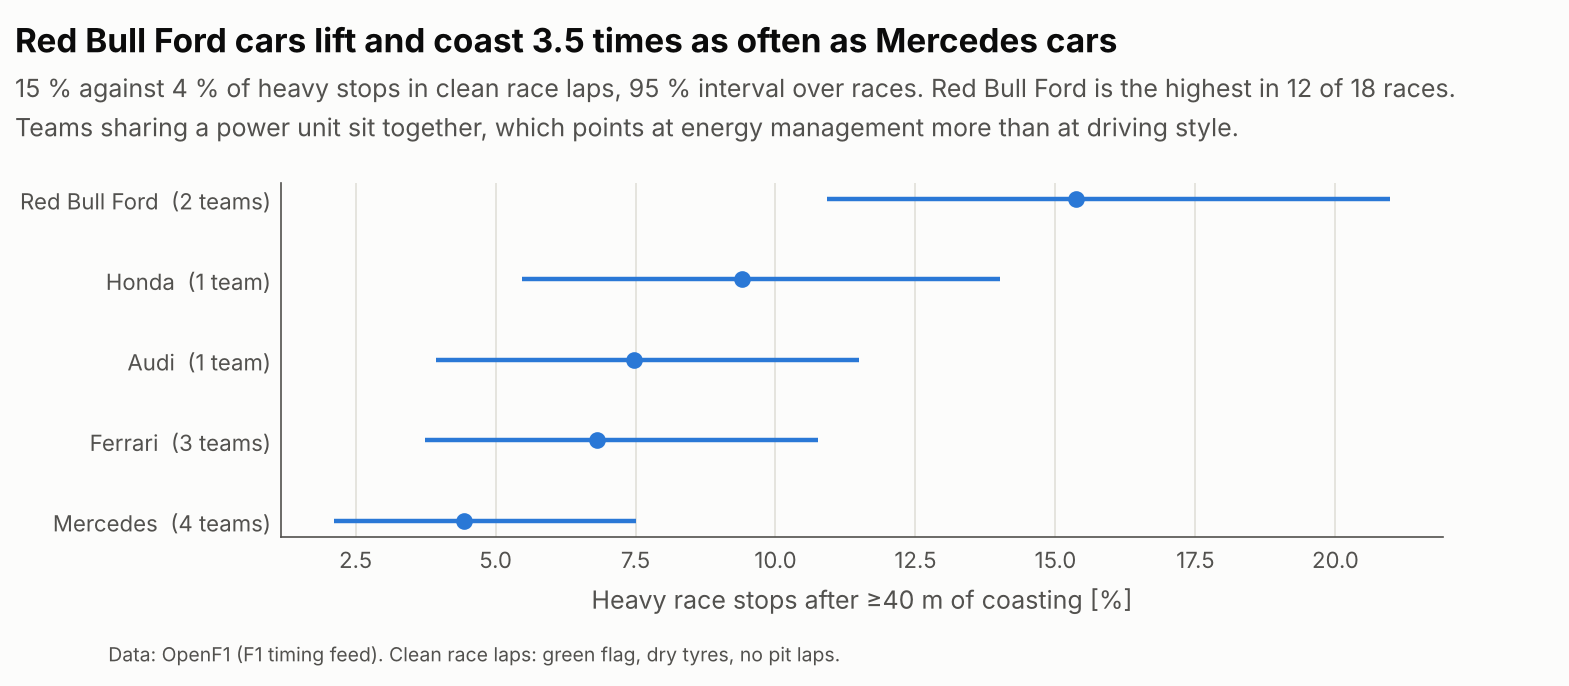
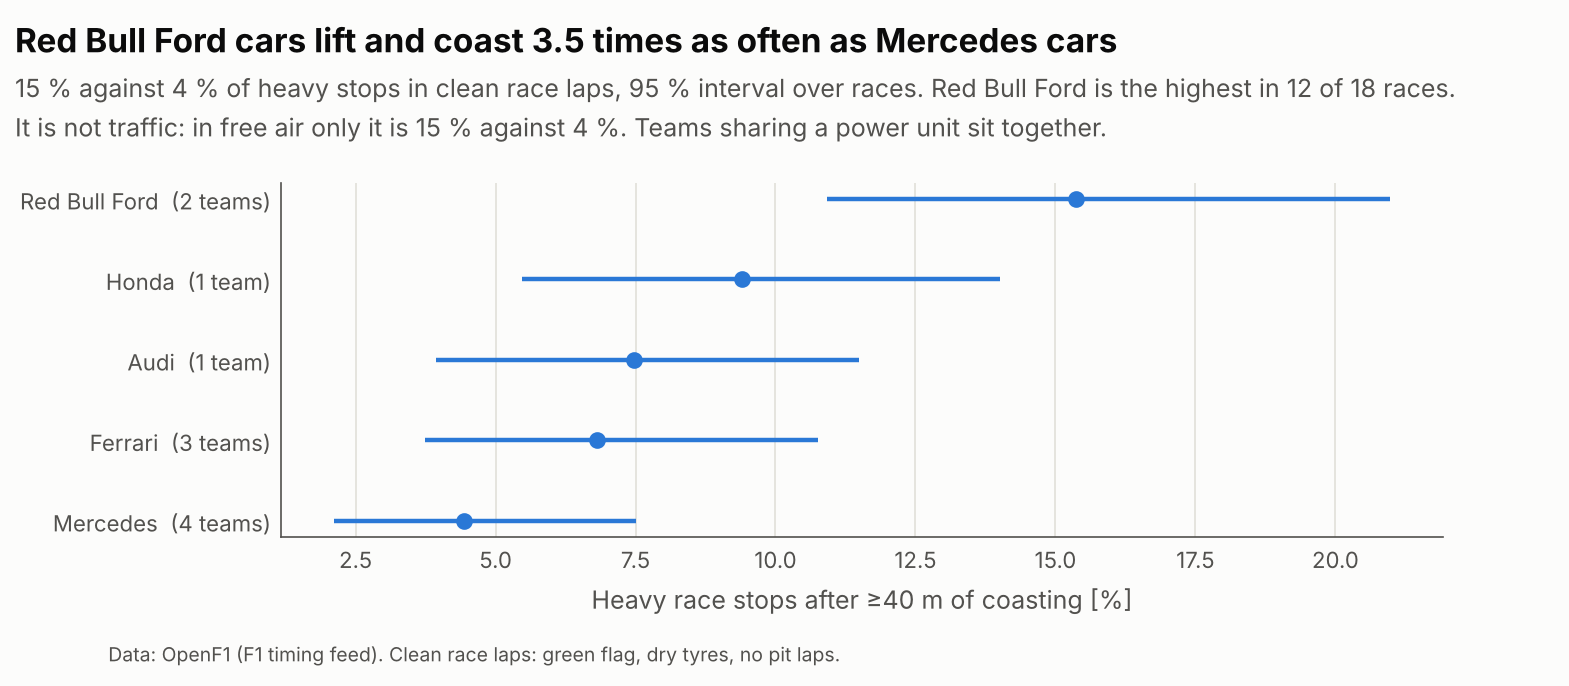
Free-air filter for race laps
- gap to the car ahead from line crossings (the intervals endpoint is
  nearly empty for 2026), taken at both ends of the lap
- same driver, stint and corner: 4.5 m earlier in traffic
- lap-to-lap scatter reported for free air (7.9 m) and traffic (9.9 m)
- power-unit pattern and race margin checked in free air only
- build scripts take the season as an argument
- a driver without a usable lap no longer drops the whole session

Changed region(s): [[0.0, 0.1531, 0.7808, 0.2143]]

diff --git a/examples/race_atlas.py b/examples/race_atlas.py
@@ -16,7 +16,7 @@ import pandas as pd  # noqa: E402
 
 from brakeatlas import plots, stats, style  # noqa: E402
 from brakeatlas.field import field_marks  # noqa: E402
-from brakeatlas.race import POWER_UNIT  # noqa: E402
+from brakeatlas.race import FREE_AIR, POWER_UNIT  # noqa: E402
 
 ROOT = Path(__file__).resolve().parents[1]
 DATA, DOCS = ROOT / "data", ROOT / "docs"
@@ -56,6 +56,7 @@ def main(suffix: str = "") -> None:
     order = list(race.groupby("track")["round_date"].first().sort_values().index)
     heavy = race[race["speed_drop"] >= plots.HEAVY_DROP]
     heavy = plots.regulars(heavy)
+    heavy = heavy.assign(free=heavy["gap_ahead"] > FREE_AIR)
     laps = race.groupby(["session", "driver", "lap_number"]).ngroups
     print(f"{len(order)} races, {laps} clean laps, {len(heavy)} heavy zones")
 
@@ -88,9 +89,40 @@ def main(suffix: str = "") -> None:
     style.source_note(fig, SOURCE)
     style.save(fig, DOCS / f"race_{YEAR}_margin.png")
 
-    # 2. Lap-to-lap scatter
-    pairs = stats.lap_pairs(heavy)
+    # 2. Traffic: same driver, stint and corner, laps in traffic against free air
+    one_lap = heavy.drop_duplicates(["session", "driver", "lap_number"])
+    keys = ["session", "driver", "stint", "corner"]
+    air = heavy.groupby([*keys, "free"]).agg(
+        bp=("bp_before_mark", "median"),
+        entry=("entry_speed", "median"),
+        n=("lap_number", "size"),
+    )
+    air = air.unstack("free")
+    air = air[(air[("n", True)] >= 3) & (air[("n", False)] >= 3)]
+    effect = pd.DataFrame(
+        {
+            "bp": air[("bp", False)] - air[("bp", True)],
+            "entry": air[("entry", False)] - air[("entry", True)],
+        }
+    ).reset_index()
+    t_bp = stats.cluster_bootstrap(effect, lambda f: f["bp"].median(), n=300)
+    t_entry = stats.cluster_bootstrap(effect, lambda f: f["entry"].median(), n=300)
+    print(
+        f"\nFree air (more than {FREE_AIR} s to the car ahead): "
+        f"{100 * one_lap['free'].mean():.0f} % of clean laps. In traffic the same "
+        f"driver brakes {t_bp[0]:+.1f} m earlier [{t_bp[1]:+.1f}, {t_bp[2]:+.1f}] "
+        f"and arrives {t_entry[0]:+.1f} km/h faster "
+        f"[{t_entry[1]:+.1f}, {t_entry[2]:+.1f}] ({len(effect)} stint-corners)"
+    )
+    m_free = stats.race_margin(
+        quali[quali["speed_drop"] >= plots.HEAVY_DROP], heavy[heavy["free"]]
+    )
+    print(f"Race vs qualifying in free air only: {m_free['margin_m'].median():+.1f} m")
+
+    # 3. Lap-to-lap scatter, free air only
+    pairs = stats.lap_pairs(heavy[heavy["free"]])
     field_s = stats.spread(pairs)
+    traffic_s = stats.spread(stats.lap_pairs(heavy[~heavy["free"]]))
     rows = []
     for driver, g in pairs.groupby("driver"):
         if g["session"].nunique() >= min(5, len(order)):
@@ -104,7 +136,8 @@ def main(suffix: str = "") -> None:
             )
     by_driver = pd.DataFrame(rows, columns=["label", "driver", "med", "lo", "hi", "n"])
     print(
-        f"\nLap-to-lap brake-point scatter, field: {field_s:.1f} m "
+        f"\nLap-to-lap brake-point scatter in free air: {field_s:.1f} m, in traffic "
+        f"{traffic_s:.1f} m "
         f"({len(pairs)} consecutive-lap pairs; raw sd of differences "
         f"{pairs['d'].std():.1f} m, sampling part "
         f"{np.sqrt(pairs['noise'].mean()):.1f} m)"
@@ -123,11 +156,11 @@ def main(suffix: str = "") -> None:
     )
     style.headline(
         ax,
-        f"The brake point moves about {field_s:.0f} m from lap to lap for everyone; "
-        f"only the ends ({best}, {worst}) differ",
-        "Standard deviation between consecutive clean laps of a stint, same corner, "
-        "95 % interval over races.\nIt is not only the driver: traffic and energy "
-        "management move a race brake point too.",
+        f"In free air the brake point moves {field_s:.0f} m from lap to lap, in "
+        f"traffic {traffic_s:.0f} m",
+        "Standard deviation between consecutive clean laps in free air, same stint "
+        "and corner, 95 % interval over races.\nMost drivers cannot be separated; "
+        f"only the ends of the list ({best}, {worst}) differ.",
     )
     style.source_note(fig, SOURCE)
     style.save(fig, DOCS / f"race_{YEAR}_scatter.png")
@@ -219,6 +252,8 @@ def main(suffix: str = "") -> None:
     print("\nLift and coast by power unit, % of heavy race stops:")
     print(pu_table.drop(columns="label").round(1).to_string(index=False))
     print(f"{top.pu} highest in {wins} of {len(per_race)} races")
+    free_pu = by_pu[by_pu["free"]].groupby("pu")["lico"].mean() * 100
+    print("In free air only:", free_pu.round(1).to_dict())
     fig, ax = plots.dots(
         pu_table, "label", "Heavy race stops after ≥40 m of coasting [%]"
     )
@@ -228,8 +263,9 @@ def main(suffix: str = "") -> None:
         f"{low.pu} cars",
         f"{top.med:.0f} % against {low.med:.0f} % of heavy stops in clean race laps, "
         f"95 % interval over races. {top.pu} is the highest in {wins} of "
-        f"{len(per_race)} races.\nTeams sharing a power unit sit together, which "
-        "points at energy management more than at driving style.",
+        f"{len(per_race)} races.\nIt is not traffic: in free air only it is "
+        f"{free_pu[top.pu]:.0f} % against {free_pu[low.pu]:.0f} %. Teams sharing a "
+        "power unit sit together.",
     )
     style.source_note(fig, SOURCE)
     style.save(fig, DOCS / f"race_{YEAR}_power_unit.png")

diff --git a/brakeatlas/race.py b/brakeatlas/race.py
@@ -15,6 +15,8 @@ from brakeatlas.openf1 import OpenF1, _when, build_lap, car_samples
 
 DRY = {"SOFT", "MEDIUM", "HARD"}
 
+FREE_AIR = 1.5  # seconds to the car ahead; more than this is free air
+
 # 2026 power-unit supply, by team name as OpenF1 writes it.
 POWER_UNIT = {
     "Mercedes": "Mercedes",
@@ -99,6 +101,28 @@ def clean_laps(
     return out
 
 
+def lap_gaps(laps: pd.DataFrame) -> pd.Series:
+    """Seconds to the car ahead on the road, per lap, from line crossings.
+
+    For each lap, the time since the previous car (any car, lapped ones
+    included) crossed the line, taken at the start of the lap and at its
+    end; the smaller of the two is returned. A lap with more than about
+    1.5 s here was driven in free air, without a tow into the braking
+    zones or dirty air through the corner before them.
+    """
+    t = pd.to_datetime(laps["date_start"], format="ISO8601", utc=True)
+    order = t.sort_values()
+    at_start = order.diff().dt.total_seconds().reindex(laps.index)
+    nxt = laps.assign(gap=at_start, lap_number=laps["lap_number"] - 1)
+    at_end = laps[["driver_number", "lap_number"]].merge(
+        nxt[["driver_number", "lap_number", "gap"]],
+        on=["driver_number", "lap_number"],
+        how="left",
+    )["gap"]
+    at_end.index = laps.index
+    return pd.concat([at_start, at_end], axis=1).min(axis=1)
+
+
 def build_race(
     client: OpenF1,
     session: dict,
@@ -127,6 +151,7 @@ def build_race(
         pd.DataFrame(client.get("pit", session_key=key)),
         pd.DataFrame(client.get("race_control", session_key=key)),
     )
+    tagged["gap_ahead"] = lap_gaps(laps)
 
     built = []
     for number, own in tagged.groupby("driver_number"):
@@ -173,6 +198,7 @@ def build_race(
                         stint=row.stint,
                         compound=row.compound,
                         tyre_age=row.tyre_age,
+                        gap_ahead=row.gap_ahead,
                     ),
                 )
             )

diff --git a/tests/test_race.py b/tests/test_race.py
@@ -61,3 +61,20 @@ def test_wet_stint_is_dropped():
     stints.loc[1, "compound"] = "INTERMEDIATE"
     tagged = clean_laps(laps, stints, pits, control).set_index("lap_number")
     assert tagged.loc[8, "reason"] == "not_dry"
+
+
+def test_gap_ahead_from_line_crossings():
+    from brakeatlas.race import lap_gaps
+
+    t0 = pd.Timestamp("2026-09-06T13:00:00Z")
+    rows = []
+    # Car 1 laps in 90 s. Car 2 starts 5 s behind and closes 2 s a lap.
+    for lap in range(1, 4):
+        rows.append((1, lap, t0 + pd.to_timedelta(90.0 * (lap - 1), unit="s")))
+        rows.append((2, lap, t0 + pd.to_timedelta(5.0 + 88.0 * (lap - 1), unit="s")))
+    laps = pd.DataFrame(rows, columns=["driver_number", "lap_number", "date_start"])
+    laps["date_start"] = laps["date_start"].map(lambda t: t.isoformat())
+    gaps = lap_gaps(laps)
+    car2 = gaps[laps["driver_number"] == 2].tolist()
+    # Lap 1: 5 s at the start, 3 s at the end. Lap 2: 3 s, then 1 s.
+    assert car2[:2] == [3.0, 1.0]

diff --git a/examples/build_season.py b/examples/build_season.py
@@ -1,4 +1,6 @@
-"""Build the braking table for every 2026 qualifying session run so far.
+"""Build the braking table for every qualifying session of a season.
+
+Usage: uv run python examples/build_season.py [year]   (default 2026)
 
 Writes data/season_2026_q.parquet (one row per braking zone) and
 data/tracks_2026_q.parquet (the fastest lap of each session, for maps).
@@ -6,6 +8,7 @@ The first run downloads from OpenF1 into .openf1_cache/ (about a
 thousand small requests); later runs read from the cache.
 """
 
+import sys
 from datetime import UTC, datetime
 from pathlib import Path
 
@@ -15,7 +18,7 @@ from apextrace.corners import locate_marks
 from brakeatlas.build import build_session
 from brakeatlas.openf1 import OpenF1
 
-YEAR = 2026
+YEAR = int(sys.argv[1]) if len(sys.argv) > 1 else 2026
 OUT = Path(__file__).resolve().parents[1] / "data"
 
 

diff --git a/brakeatlas/build.py b/brakeatlas/build.py
@@ -25,9 +25,19 @@ def build_session(
     frames, reference = [], None
     for rank, row in enumerate(best.itertuples(), start=1):
         label = f"{row.name_acronym} {session['circuit_short_name']} {session['year']}"
-        lap = load_lap(
-            client, key, int(row.driver_number), row.date_start, row.lap_duration, label
-        )
+        try:
+            lap = load_lap(
+                client,
+                key,
+                int(row.driver_number),
+                row.date_start,
+                row.lap_duration,
+                label,
+            )
+        except (ValueError, IndexError):
+            # No usable telemetry for this driver's lap: leave him out,
+            # do not lose the session.
+            continue
         if reference is None:
             reference = lap
         frames.append(

diff --git a/examples/build_races.py b/examples/build_races.py
@@ -5,7 +5,7 @@ the reference lap length per track. Writes data/season_2026_r.parquet.
 The first run downloads one request per driver and race from OpenF1
 (about 400 requests, 4-5 MB each before compression).
 
-Usage: uv run python examples/build_races.py [track ...]
+Usage: uv run python examples/build_races.py [year] [track ...]
 """
 
 import sys
@@ -18,7 +18,8 @@ from brakeatlas.field import field_marks
 from brakeatlas.openf1 import OpenF1
 from brakeatlas.race import build_race
 
-YEAR = 2026
+ARGS = sys.argv[1:]
+YEAR = int(ARGS.pop(0)) if ARGS and ARGS[0].isdigit() else 2026
 DATA = Path(__file__).resolve().parents[1] / "data"
 
 
@@ -69,4 +70,4 @@ def main(only: list[str]) -> None:
 
 
 if __name__ == "__main__":
-    main(sys.argv[1:])
+    main(ARGS)

diff --git a/docs/FINDINGS.md b/docs/FINDINGS.md
@@ -117,24 +117,36 @@ brake point off as the tyres wear; the loss shows at the apex. Most of the
 "later" happens in the first laps of a stint, when drivers brake early on
 new tyres.
 
+### Traffic moves the brake point
+
+A lap counts as free air when the car ahead on the road, lapped cars
+included, is more than 1.5 s away at both ends of the lap. That is 57 % of
+clean laps. Comparing the same driver in the same stint and corner, in
+traffic he brakes 4.5 m earlier (95 % interval 3.5 to 5.7 m, 3011
+stint-corners) while arriving 0.6 km/h faster from the tow.
+
+The results above hold in free air alone: the race brake point is 11.7 m
+before the qualifying one, and lift and coast is 15 % for Red Bull Ford
+against 4 % for Mercedes.
+
 ### Lap-to-lap scatter
 
 ![Lap-to-lap scatter per driver](race_2026_scatter.png)
 
 Between consecutive clean laps of a stint, the brake point at a given
-corner moves with a standard deviation of 8.9 m once sampling noise is
-removed (52 000 pairs of laps). Drivers range from 7.7 m (Piastri) to 9.7 m
-(Stroll). Both McLarens are at the consistent end. Most of the field cannot
-be separated: the intervals overlap. The number mixes the driver with
-traffic and energy management, which move a race brake point too. Odometer error is not a large part: at Monza the result is the same for
-the first corner of the lap and the last.
+corner moves with a standard deviation of 7.9 m in free air and 9.9 m in
+traffic, once sampling noise is removed. In free air drivers range from
+6.7 m (Piastri) to 8.7 m (Stroll). Most of the field cannot be separated:
+the intervals overlap. The number still mixes the driver with energy
+management, which moves a race brake point too. Odometer error is not a
+large part: at Monza the result is the same for the first corner of the lap
+and the last.
 
 ## What is not in here
 
 - Hungaroring race: the feed has holes of about 1600 m per lap, so only 232
   laps survive the filters.
 - Interlagos race: 453 laps on wet-weather tyres are excluded.
-- Free air: race laps are not filtered by gap to the car ahead yet.
 - One qualifying lap per driver, the fastest, which mixes Q1, Q2 and Q3
   track conditions.
 - No brake pressure or steering in the feed, so nothing about trail braking.

diff --git a/README.md b/README.md
@@ -117,7 +117,6 @@ cd examples && uv run python export_atlas.py  # data for docs/index.html
 Car data arrives every 0.2-0.27 s, up to 20 m between samples at 300 km/h,
 so single brake points are rough. There is no brake pressure or steering
 channel, so nothing here is about trail braking. Qualifying uses one lap
-per driver, the fastest, which mixes Q1, Q2 and Q3 track conditions. Race
-laps are not filtered by gap to the car ahead yet. The Hungaroring race is
+per driver, the fastest, which mixes Q1, Q2 and Q3 track conditions. The Hungaroring race is
 almost absent because of holes in the feed. Lift and coast is often a team
 instruction, so I report it per team and power unit, not per driver.
